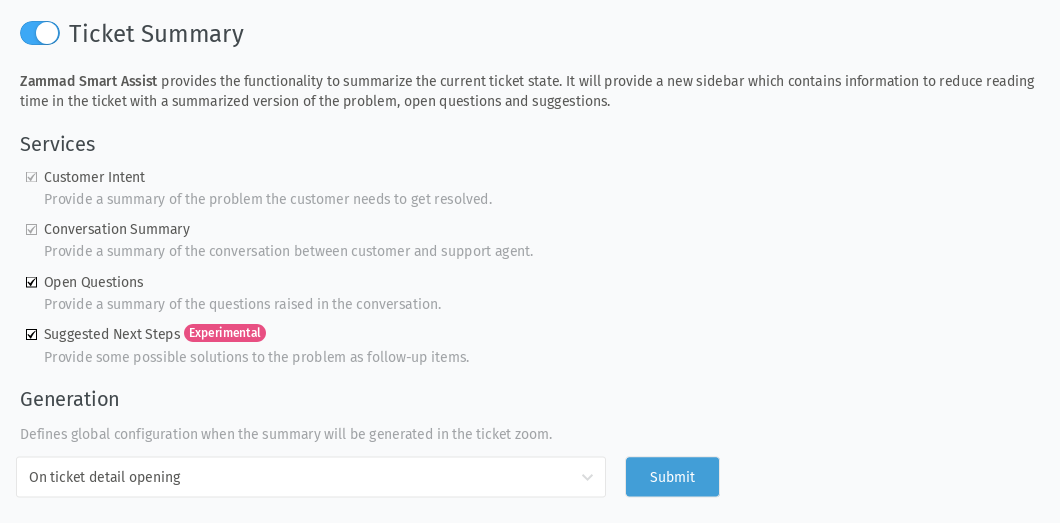
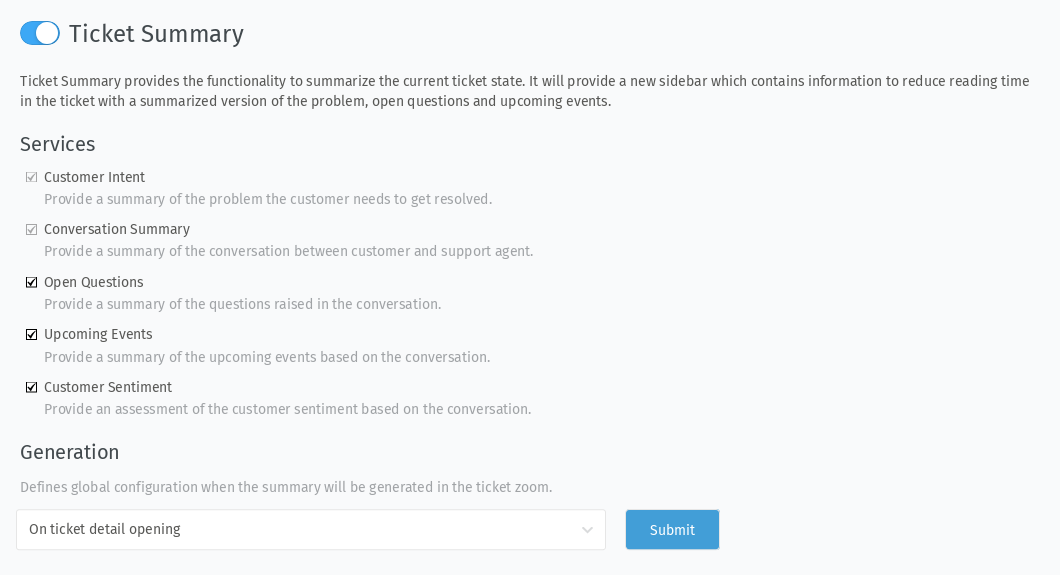
Fixes #903 - Adjustments regarding ticket summary changes

diff --git a/ai/summary.rst b/ai/summary.rst
@@ -14,8 +14,8 @@ feature. Otherwise, a warning message will tell you to do so.
    :scale: 80%
 
 If you activate this feature, **Customer Intent** and **Conversation Summary**
-are enabled by default. You can choose to activate **Open Questions** and
-**Suggested Next Steps**, depending if this is helpful in your use case.
+are enabled by default. You can choose to activate **Open Questions**,
+**Upcoming Events** and **Customer Sentiment**, depending on your use case.
 
 Enabling the ticket summary feature triggers a request to the configured AI
 service at the configured action (see below). After the summary is generated,
